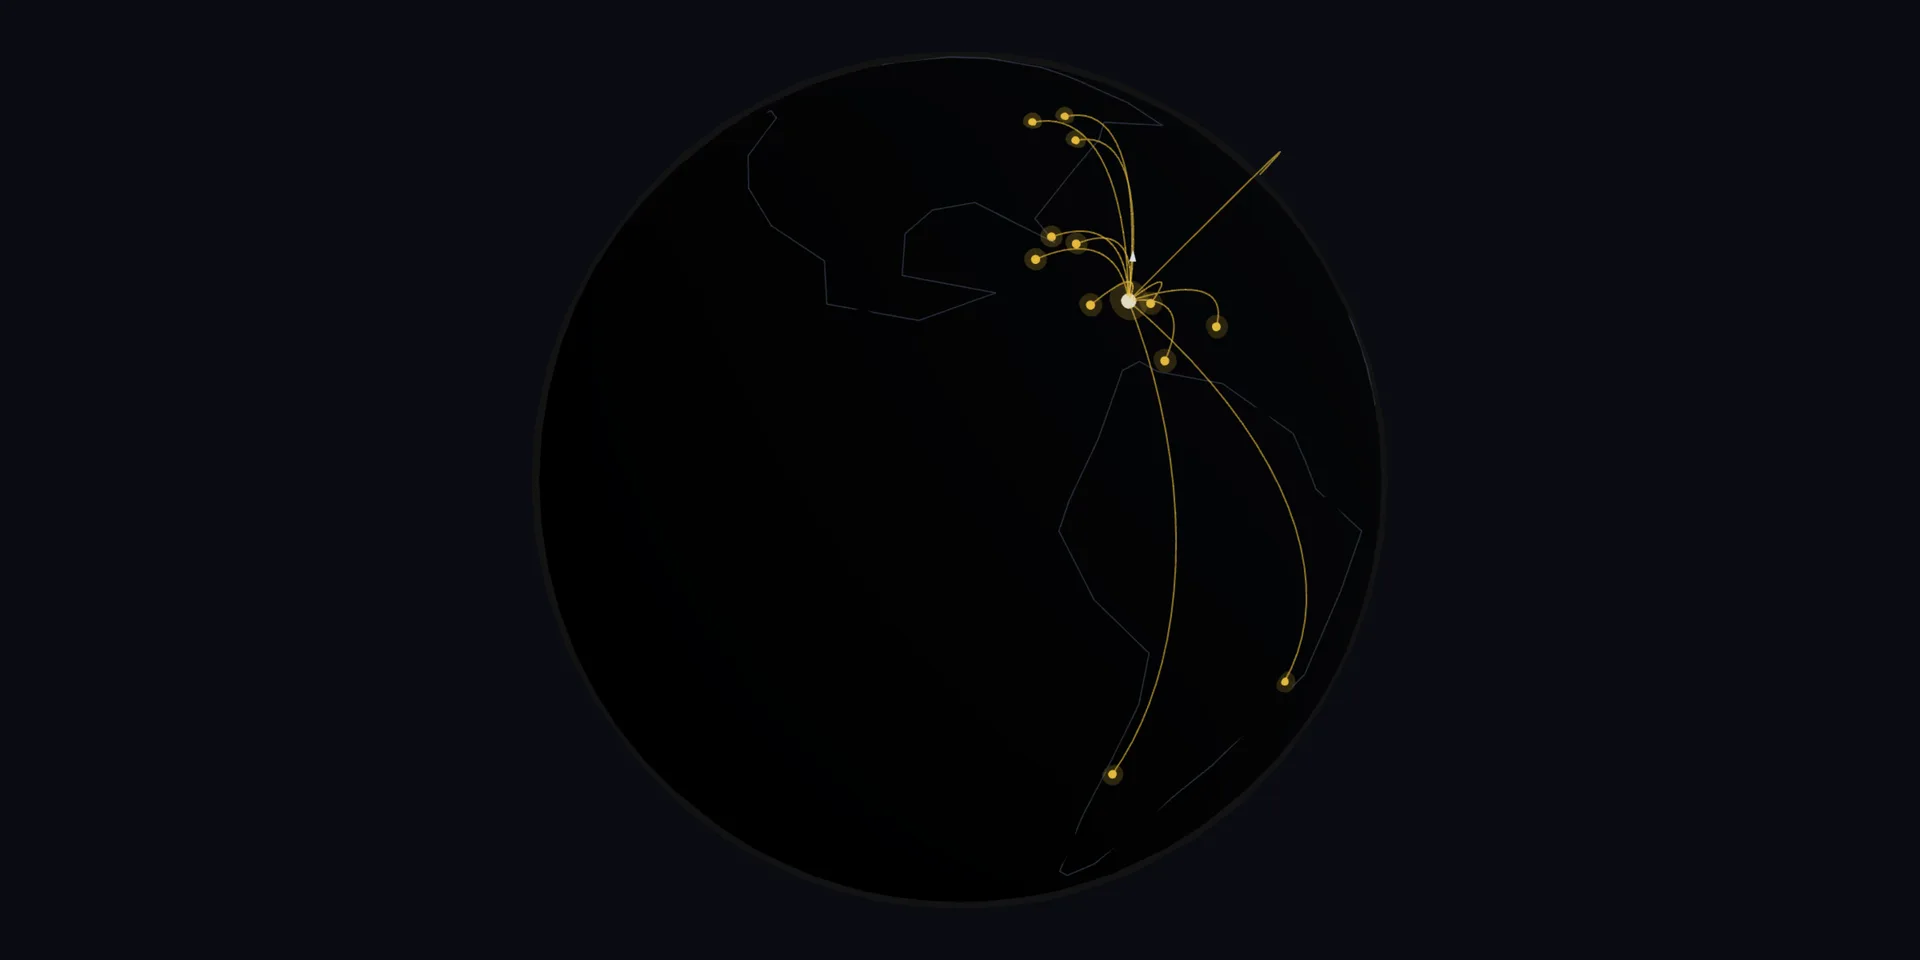
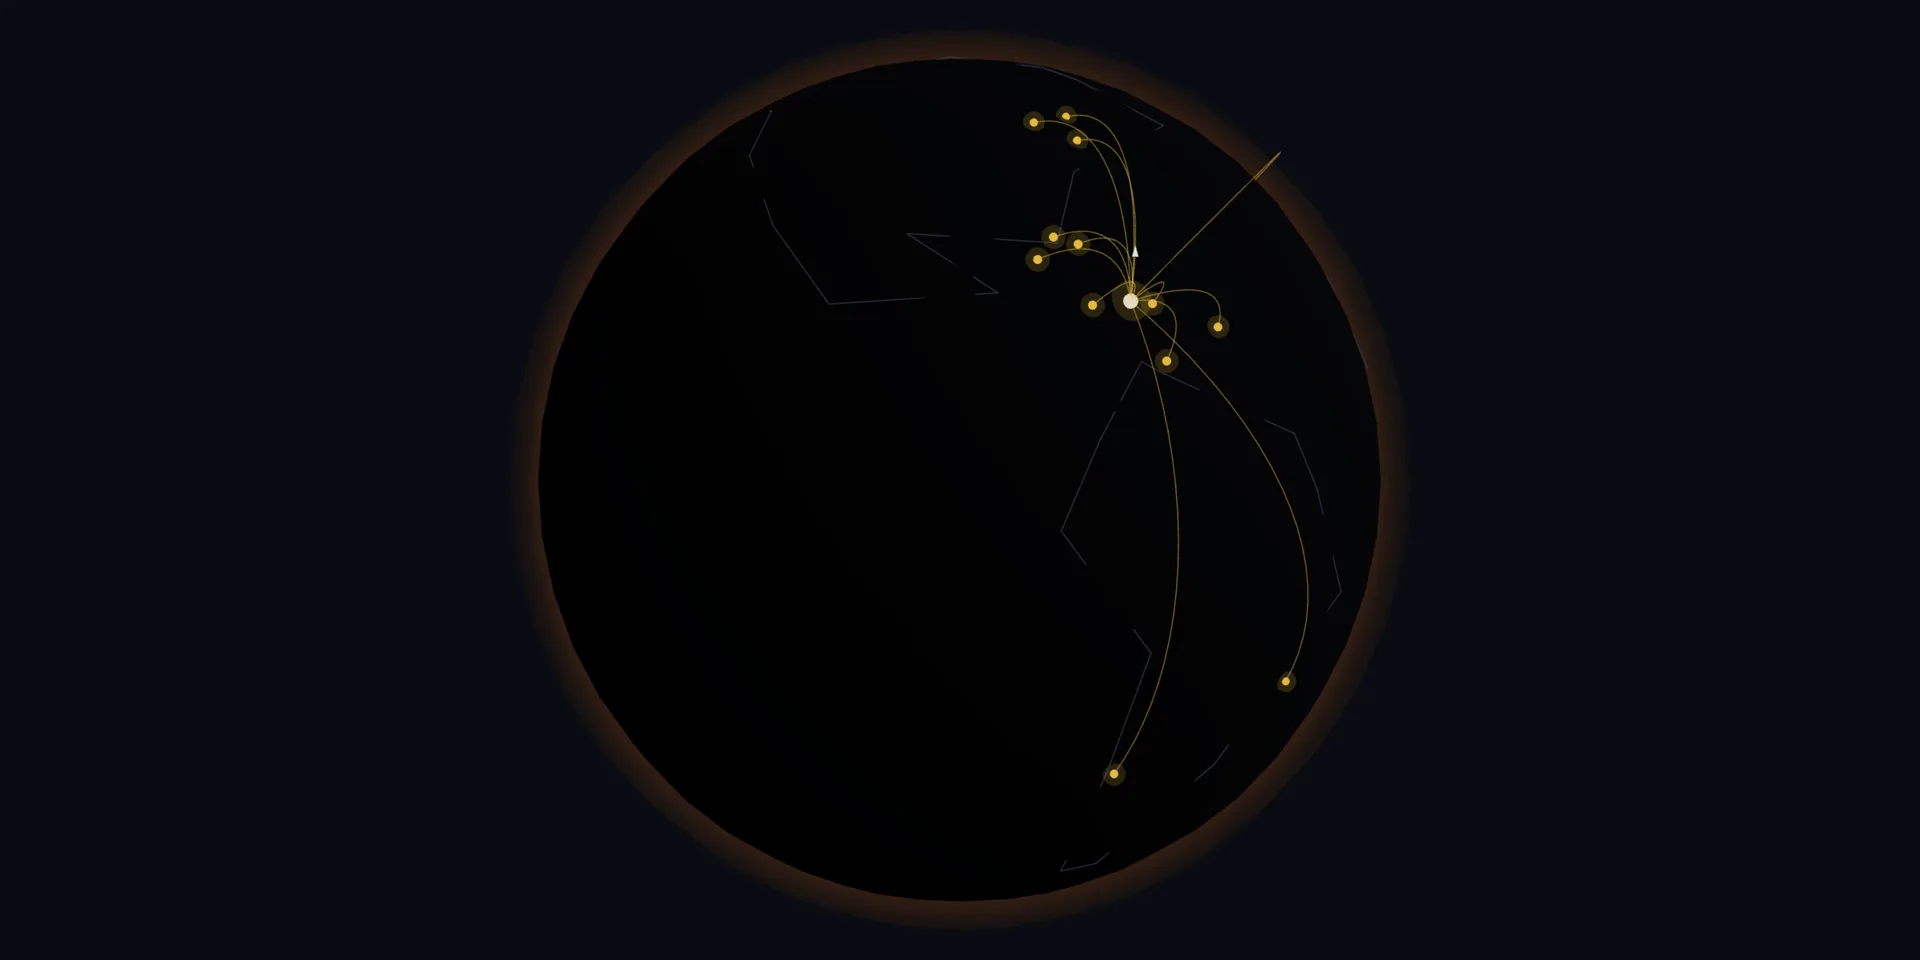
Ajuste le globe 3D : arcs, halo, étiquette au survol, perf
- Arcs recalibrés (largeur 1.3→0.9, opacité 0.65→0.55) : lignes
  fines et lisibles plutôt qu'épaisses, notamment là où plusieurs
  arcs convergent vers le hub PAP.
- Halo atmosphérique or ajouté autour du globe : shader Fresnel
  (plus lumineux en bord de silhouette, transparent au centre)
  plutôt qu'une sphère semi-transparente plate — coût quasi nul,
  c'est le shader qui fait le dégradé, pas la géométrie.
- Étiquette discrète au survol d'un point de destination (nom de
  ville via next-intl, drei Html, zone de survol élargie mais
  invisible pour rester facile à cibler).
- Géométrie allégée pour un chargement plus rapide : sphère
  32×32→24×24, points de destination 10×10→8×8, cône de l'avion
  6→5 segments, et contours de continents simplifiés à ~85 points
  au lieu de ~163.
- Corrige un bug réel découvert en testant le survol : les divs de
  contenu (dégradé + colonne titre/formulaire/raccourcis) couvraient
  toute la section en pointer-events auto par défaut, bloquant tout
  hover/drag sur le globe même dans les zones visuellement vides
  autour de la carte (confirmé via elementFromPoint : le canvas ne
  recevait aucun événement). Corrigé avec pointer-events-none sur
  les conteneurs décoratifs/de mise en page et pointer-events-auto
  ciblé sur la carte et les raccourcis.
- Nouveau .webp de secours généré pour refléter le halo et les
  arcs recalibrés.

Vérifié : tsc --noEmit, lint, build de production (bundle initial
[…]

diff --git a/src/components/home/globe/globe-scene.tsx b/src/components/home/globe/globe-scene.tsx
@@ -1,10 +1,13 @@
 "use client";
 
-import { useMemo, useRef } from "react";
+import { useMemo, useRef, useState } from "react";
 import { useFrame } from "@react-three/fiber";
-import { Line, OrbitControls, QuadraticBezierLine } from "@react-three/drei";
+import { Html, Line, OrbitControls, QuadraticBezierLine } from "@react-three/drei";
+import { useTranslations } from "next-intl";
 import {
+  AdditiveBlending,
   BackSide,
+  Color,
   QuadraticBezierCurve3,
   type Group,
   type Mesh,
@@ -18,18 +21,46 @@ import { createArcPoints, latLonToVector3 } from "./geo";
 
 const GLOBE_RADIUS = 1.6;
 const GOLD = "#F2A81D";
+const ATMOSPHERE_COLOR = new Color(GOLD);
+
+/** Halo atmosphérique en Fresnel — plus lumineux en bord de silhouette,
+ * transparent au centre. Peu coûteux : c'est le shader qui fait le
+ * dégradé, pas la géométrie (sphère basse résolution). */
+const ATMOSPHERE_VERTEX = /* glsl */ `
+  varying vec3 vNormal;
+  void main() {
+    vNormal = normalize(normalMatrix * normal);
+    gl_Position = projectionMatrix * modelViewMatrix * vec4(position, 1.0);
+  }
+`;
+const ATMOSPHERE_FRAGMENT = /* glsl */ `
+  varying vec3 vNormal;
+  uniform vec3 color;
+  void main() {
+    float rim = pow(0.62 - dot(vNormal, vec3(0.0, 0.0, 1.0)), 2.5);
+    gl_FragColor = vec4(color, clamp(rim, 0.0, 1.0) * 0.55);
+  }
+`;
 
 function GlobeSphere() {
   return (
     <group>
       <mesh>
-        <sphereGeometry args={[GLOBE_RADIUS, 32, 32]} />
+        <sphereGeometry args={[GLOBE_RADIUS, 24, 24]} />
         <meshStandardMaterial color="#0b0e14" roughness={0.95} metalness={0.05} />
       </mesh>
-      {/* fine halo autour du globe, purement décoratif */}
-      <mesh>
-        <sphereGeometry args={[GLOBE_RADIUS * 1.015, 24, 24]} />
-        <meshBasicMaterial color={GOLD} transparent opacity={0.04} side={BackSide} />
+      {/* halo atmosphérique or, discret */}
+      <mesh scale={1.06}>
+        <sphereGeometry args={[GLOBE_RADIUS, 20, 20]} />
+        <shaderMaterial
+          vertexShader={ATMOSPHERE_VERTEX}
+          fragmentShader={ATMOSPHERE_FRAGMENT}
+          uniforms={{ color: { value: ATMOSPHERE_COLOR } }}
+          transparent
+          depthWrite={false}
+          side={BackSide}
+          blending={AdditiveBlending}
+        />
       </mesh>
     </group>
   );
@@ -63,12 +94,17 @@ function ContinentOutlines() {
 function DestinationPoint({
   position,
   isHub,
+  code,
 }: {
   position: Vector3;
   isHub: boolean;
+  code: AirportCode;
 }) {
   const haloRef = useRef<Mesh>(null);
+  const [hovered, setHovered] = useState(false);
+  const tAirports = useTranslations("Airports");
   const phase = useMemo(() => position.x + position.z, [position]);
+  const dotSize = isHub ? 0.022 : 0.013;
 
   useFrame(({ clock }) => {
     const halo = haloRef.current;
@@ -82,13 +118,36 @@ function DestinationPoint({
   return (
     <group position={position}>
       <mesh>
-        <sphereGeometry args={[isHub ? 0.022 : 0.013, 10, 10]} />
+        <sphereGeometry args={[dotSize, 8, 8]} />
         <meshBasicMaterial color={isHub ? "#ffffff" : GOLD} />
       </mesh>
       <mesh ref={haloRef}>
-        <sphereGeometry args={[(isHub ? 0.022 : 0.013) * 1.8, 10, 10]} />
+        <sphereGeometry args={[dotSize * 1.8, 8, 8]} />
         <meshBasicMaterial color={GOLD} transparent opacity={0.3} depthWrite={false} />
       </mesh>
+      {/* zone de survol plus généreuse que le point visible, pour rester facile à cibler */}
+      <mesh
+        onPointerOver={(event) => {
+          event.stopPropagation();
+          setHovered(true);
+          document.body.style.cursor = "pointer";
+        }}
+        onPointerOut={(event) => {
+          event.stopPropagation();
+          setHovered(false);
+          document.body.style.cursor = "auto";
+        }}
+      >
+        <sphereGeometry args={[dotSize * 3.5, 8, 8]} />
+        <meshBasicMaterial transparent opacity={0} depthWrite={false} />
+      </mesh>
+      {hovered && (
+        <Html center style={{ pointerEvents: "none" }}>
+          <span className="-translate-y-5 whitespace-nowrap rounded-md bg-citadelle-noir/90 px-2 py-1 text-xs font-medium text-white shadow-lg">
+            {tAirports(code)}
+          </span>
+        </Html>
+      )}
     </group>
   );
 }
@@ -109,7 +168,7 @@ function FlightMarker({ curve }: { curve: QuadraticBezierCurve3 }) {
   return (
     <group ref={ref}>
       <mesh rotation={[Math.PI / 2, 0, 0]}>
-        <coneGeometry args={[0.01, 0.032, 6]} />
+        <coneGeometry args={[0.01, 0.032, 5]} />
         <meshBasicMaterial color="#ffffff" />
       </mesh>
     </group>
@@ -183,14 +242,19 @@ export function GlobeScene() {
           mid={points[1]}
           end={points[2]}
           color={GOLD}
-          lineWidth={1.3}
+          lineWidth={0.9}
           transparent
-          opacity={0.65}
+          opacity={0.55}
         />
       ))}
 
       {destinationPoints.map(({ code, position }) => (
-        <DestinationPoint key={code} position={position} isHub={code === HUB_AIRPORT} />
+        <DestinationPoint
+          key={code}
+          position={position}
+          isHub={code === HUB_AIRPORT}
+          code={code}
+        />
       ))}
 
       {flightCurve && <FlightMarker curve={flightCurve} />}

diff --git a/src/components/home/globe/continent-outlines.ts b/src/components/home/globe/continent-outlines.ts
@@ -3,53 +3,42 @@
  * dessinées à la main pour un rendu stylisé — pas des données
  * cartographiques précises. Chaque tableau est une boucle fermée
  * (premier point répété à la fin) tracée en ligne fine sur le globe.
+ * Volontairement peu de points : silhouette légère à calculer/tracer.
  */
 export const CONTINENT_OUTLINES: [number, number][][] = [
   // Amérique du Nord
   [
-    [70, -160], [66, -168], [58, -158], [55, -162], [51, -130], [48, -125],
-    [40, -124], [34, -120], [28, -114], [23, -106], [18, -105], [16, -95],
-    [19, -87], [21, -97], [26, -97], [29, -94], [30, -89], [25, -80],
-    [28, -82], [35, -76], [41, -70], [45, -67], [47, -53], [52, -56],
-    [58, -63], [60, -65], [63, -68], [68, -81], [70, -95], [72, -125],
-    [70, -160],
+    [70, -160], [58, -158], [51, -130], [40, -124], [28, -114], [18, -105],
+    [19, -87], [26, -97], [25, -80], [35, -76], [47, -53], [58, -63],
+    [63, -68], [70, -95], [70, -160],
   ],
   // Amérique du Sud
   [
-    [12, -72], [11, -74], [4, -77], [-2, -80], [-5, -81], [-12, -77],
-    [-18, -70], [-24, -70], [-33, -72], [-40, -73], [-53, -71], [-55, -68],
-    [-52, -64], [-38, -58], [-34, -54], [-23, -42], [-13, -39], [-6, -35],
-    [-1, -48], [2, -50], [5, -52], [10, -62], [11, -70], [12, -72],
+    [12, -72], [4, -77], [-5, -81], [-18, -70], [-33, -72], [-53, -71],
+    [-52, -64], [-34, -54], [-13, -39], [-1, -48], [5, -52], [11, -70],
+    [12, -72],
   ],
   // Europe
   [
-    [71, 25], [68, 20], [65, 12], [60, 5], [58, 8], [55, 8], [53, 4],
-    [50, 1], [46, -1], [43, -9], [43, -2], [40, -9], [37, -9], [37, -5],
-    [36, 3], [38, 15], [40, 18], [41, 28], [45, 28], [48, 30], [52, 40],
-    [55, 40], [60, 30], [66, 29], [70, 28], [71, 25],
+    [71, 25], [65, 12], [58, 8], [53, 4], [46, -1], [43, -2], [37, -9],
+    [36, 3], [40, 18], [45, 28], [52, 40], [60, 30], [70, 28], [71, 25],
   ],
   // Afrique
   [
-    [37, 10], [33, 10], [32, 20], [31, 32], [22, 37], [12, 43], [11, 51],
-    [1, 45], [-5, 40], [-15, 40], [-22, 35], [-26, 32], [-34, 20],
-    [-33, 18], [-28, 15], [-17, 12], [-10, 13], [0, 9], [5, 9], [10, -15],
-    [15, -17], [21, -17], [28, -14], [33, -10], [36, -6], [37, 10],
+    [37, 10], [32, 20], [22, 37], [11, 51], [-5, 40], [-22, 35],
+    [-34, 20], [-28, 15], [-10, 13], [5, 9], [15, -17], [28, -14],
+    [36, -6], [37, 10],
   ],
   // Asie
   [
-    [77, 105], [70, 80], [66, 60], [60, 60], [55, 45], [45, 38], [41, 29],
-    [37, 36], [33, 45], [29, 48], [25, 55], [23, 68], [22, 70], [15, 73],
-    [8, 77], [6, 80], [9, 92], [16, 94], [20, 93], [22, 89], [28, 90],
-    [28, 95], [21, 105], [10, 105], [1, 104], [0, 100], [6, 100],
-    [10, 104], [16, 108], [21, 108], [22, 113], [29, 122], [35, 126],
-    [38, 128], [43, 132], [52, 141], [60, 163], [65, 178], [70, 178],
+    [77, 105], [66, 60], [45, 38], [37, 36], [29, 48], [23, 68],
+    [15, 73], [6, 80], [16, 94], [22, 89], [21, 105], [1, 104],
+    [6, 100], [16, 108], [22, 113], [35, 126], [43, 132], [65, 178],
     [77, 105],
   ],
   // Australie
   [
-    [-11, 131], [-12, 136], [-16, 137], [-15, 141], [-17, 146],
-    [-19, 146], [-25, 153], [-30, 153], [-35, 150], [-38, 147],
-    [-38, 140], [-35, 136], [-32, 134], [-32, 127], [-25, 113],
-    [-18, 122], [-15, 124], [-13, 127], [-11, 131],
+    [-11, 131], [-16, 137], [-17, 146], [-25, 153], [-38, 147],
+    [-35, 136], [-32, 127], [-18, 122], [-13, 127], [-11, 131],
   ],
 ];

diff --git a/src/components/home/hero-globe.tsx b/src/components/home/hero-globe.tsx
@@ -24,10 +24,10 @@ export function HeroGlobe({ shortcuts }: { shortcuts: ReactNode }) {
         {capability === "fallback" && <GlobeFallback />}
         {capability === "checking" && <GlobeSkeleton />}
       </div>
-      <div className="absolute inset-0 bg-gradient-to-t from-citadelle-noir/85 via-citadelle-noir/35 to-citadelle-noir/10" />
+      <div className="pointer-events-none absolute inset-0 bg-gradient-to-t from-citadelle-noir/85 via-citadelle-noir/35 to-citadelle-noir/10" />
 
-      <div className="relative z-10 mx-auto flex w-full max-w-4xl flex-1 flex-col justify-center px-4 py-16 sm:px-6 lg:px-8">
-        <div className="rounded-[24px] bg-card p-6 shadow-xl sm:p-8">
+      <div className="pointer-events-none relative z-10 mx-auto flex w-full max-w-4xl flex-1 flex-col justify-center px-4 py-16 sm:px-6 lg:px-8">
+        <div className="pointer-events-auto rounded-[24px] bg-card p-6 shadow-xl sm:p-8">
           <h1 className="font-serif text-3xl font-semibold text-foreground sm:text-4xl">
             {t("title")}
           </h1>
@@ -37,7 +37,7 @@ export function HeroGlobe({ shortcuts }: { shortcuts: ReactNode }) {
           </div>
         </div>
 
-        <div className="mt-8">{shortcuts}</div>
+        <div className="pointer-events-auto mt-8">{shortcuts}</div>
       </div>
     </section>
   );
